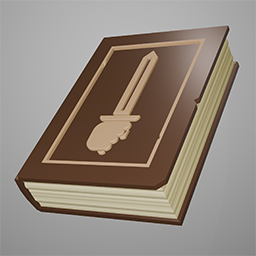
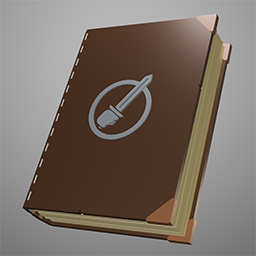
Phase switching fix

diff --git a/Assets/Scripts/Units/UnitMove.cs b/Assets/Scripts/Units/UnitMove.cs
@@ -69,14 +69,17 @@ public class UnitMove : MonoBehaviour {
         CheckTileTypeOnStop();
         IsMoving = false;
         unit.Animator.SetMoving(false);
-        BattleUI.Instance.EnableUI();
-        if (canMove) AfterMove();
+        if (!unit.IsDead) BattleUI.Instance.EnableUI();
+        AfterMove();
       }
     }
   }
 
-  private void AfterMove() {
-    if (unit.CurrentMovePoints < 1 || unit.Relation == UnitRelation.Enemy) {
+  private async void AfterMove() {
+    if (unit.IsDead) {
+      await Task.Delay(1500);
+      PhaseManager.NextPhase();
+    } else if (unit.CurrentMovePoints < 1 || unit.Relation == UnitRelation.Enemy) {
       PhaseManager.NextPhase();
     } else {
       TileManager.ShowReachableTiles(
@@ -111,7 +114,8 @@ public class UnitMove : MonoBehaviour {
         if (unit.Relation == UnitRelation.Ally) tile.TakeLoot();
         return true;
       case TileType.Trap:
-        return tile.TriggerTrap();
+        tile.TriggerTrap();
+        return false;
     }
     return true;
   }

diff --git a/Assets/Scripts/Objects/Trap.cs b/Assets/Scripts/Objects/Trap.cs
@@ -17,7 +17,7 @@ public class Trap : MonoBehaviour {
 
   private string G(string text) => Utils.GreyText(text);
 
-  public async void Trigger(Unit unit) {
+  public void Trigger(Unit unit) {
     transform.GetComponent<Animator>().SetTrigger("Trigger");
     if (effect == null || unit == null) return;
 
@@ -35,14 +35,15 @@ public class Trap : MonoBehaviour {
     if (totalDamage > 0) unit.Health.TakeDamage(totalDamage, modifier, true);
     _ = CameraController.Shake(0.8f);
 
-    if (unit.IsDead) {
-      await QueueManager.Instance.NextUnit();
-      return;
-    }
-
     unit.Effects.ApplyEffect(effect, effectDuration);
     LogDamage(unit, totalDamage, modifier, effect);
-    if (effect.cancelMove) PhaseManager.NextPhase();
+
+    if (unit.IsDead) return;
+
+    if (effect.cancelMove) {
+      unit.CurrentMovePoints = 0;
+      PhaseManager.NextPhase();
+    }
   }
 
   private void LogDamage(

diff --git a/Assets/Scripts/Inventory/Exact/LevelingItem.cs b/Assets/Scripts/Inventory/Exact/LevelingItem.cs
@@ -5,7 +5,8 @@ using UnityEngine;
 public class LevelingItem : Item {
   public float effectValue;
   public int maxLevel;
-  public UnitType unitType;
+  public UnitType[] allowedUnitTypes;
+  public EquipmentType[] allowedEquipment;
 
   public override void Use() {
     switch (id) {
@@ -16,7 +17,14 @@ public class LevelingItem : Item {
     }
 
     Unit[] units = Player.Instance.Army.Units
-      .Where(u => u.Type == unitType && u.Level < maxLevel && u.Level < u.MaxLevel)
+      .Where(u =>
+        !u.IsHero &&
+        (allowedUnitTypes.Length == 0 || allowedUnitTypes.Contains(u.Type)) &&
+        u.Equip.primary != null &&
+        (allowedEquipment.Length == 0 || allowedEquipment.Contains(u.Equip.primary.type)) &&
+        u.Level < maxLevel &&
+        u.Level < u.MaxLevel
+      )
       .ToArray();
 
     if (units.Length == 0) {

diff --git a/Assets/Scripts/Battlefield/Tile.cs b/Assets/Scripts/Battlefield/Tile.cs
@@ -149,13 +149,10 @@ public class Tile : MonoBehaviour {
     return SetTrap(hiddenTrap);
   }
 
-  public bool TriggerTrap() {
-    Trap hiddenTrap = transform.GetComponentInChildren<Trap>();
+  public void TriggerTrap() {
     GameObject trap = UncoverTrap();
-    if (trap == null) return true;
+    if (trap == null) return;
     trap.GetComponent<Trap>().Trigger(QueueManager.Instance.CurrentUnit);
     type = TileType.Open;
-    // Can move after trigger or not
-    return hiddenTrap.Type == TrapType.Spikes;
   }
 }

diff --git a/Assets/Scripts/Battlefield/QueueManager.cs b/Assets/Scripts/Battlefield/QueueManager.cs
@@ -108,12 +108,12 @@ public class QueueManager : MonoBehaviour {
     CurrentUnit.Ui.MarkAsActive();
     BattleUI.Instance.UpdateQueue(Queue, orderNumber);
 
+    FocusOnUnit();
+
     if (
       CurrentUnit.Relation != UnitRelation.Enemy &&
       CurrentUnit.CurrentTile.type == TileType.Climb
     ) BattleUI.Instance.ShowClimbButton();
-
-    FocusOnUnit();
   }
 
   private void HandleUI(Unit unit) {

diff --git a/Assets/Scripts/Units/UnitEffects.cs b/Assets/Scripts/Units/UnitEffects.cs
@@ -16,6 +16,7 @@ public class UnitEffects : MonoBehaviour {
   }
 
   public void ApplyEffect(Effect effect, int duration = 0, float damage = 0) {
+    if (unit.IsDead) return;
     EffectInstance existing = ActiveEffects.Find(e => e.effectData == effect);
 
     if (existing != null) {

diff --git a/Assets/Scripts/Battlefield/PhaseManager.cs b/Assets/Scripts/Battlefield/PhaseManager.cs
@@ -20,6 +20,8 @@ public class PhaseManager : MonoBehaviour
 
     if (QueueManager.Instance.CurrentUnit.IsDead) {
       await QueueManager.Instance.NextUnit();
+      await Task.Yield();
+      PhaseActions();
       return;
     }
 
